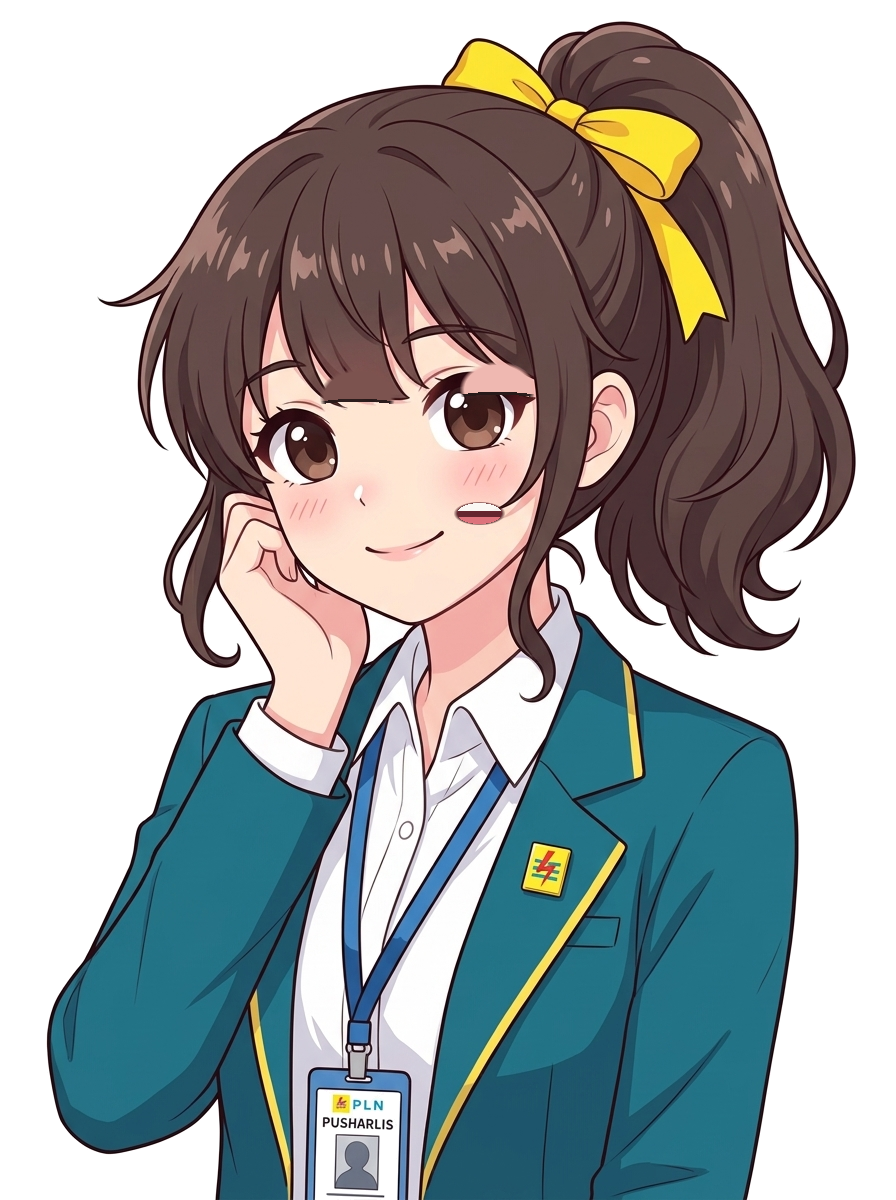
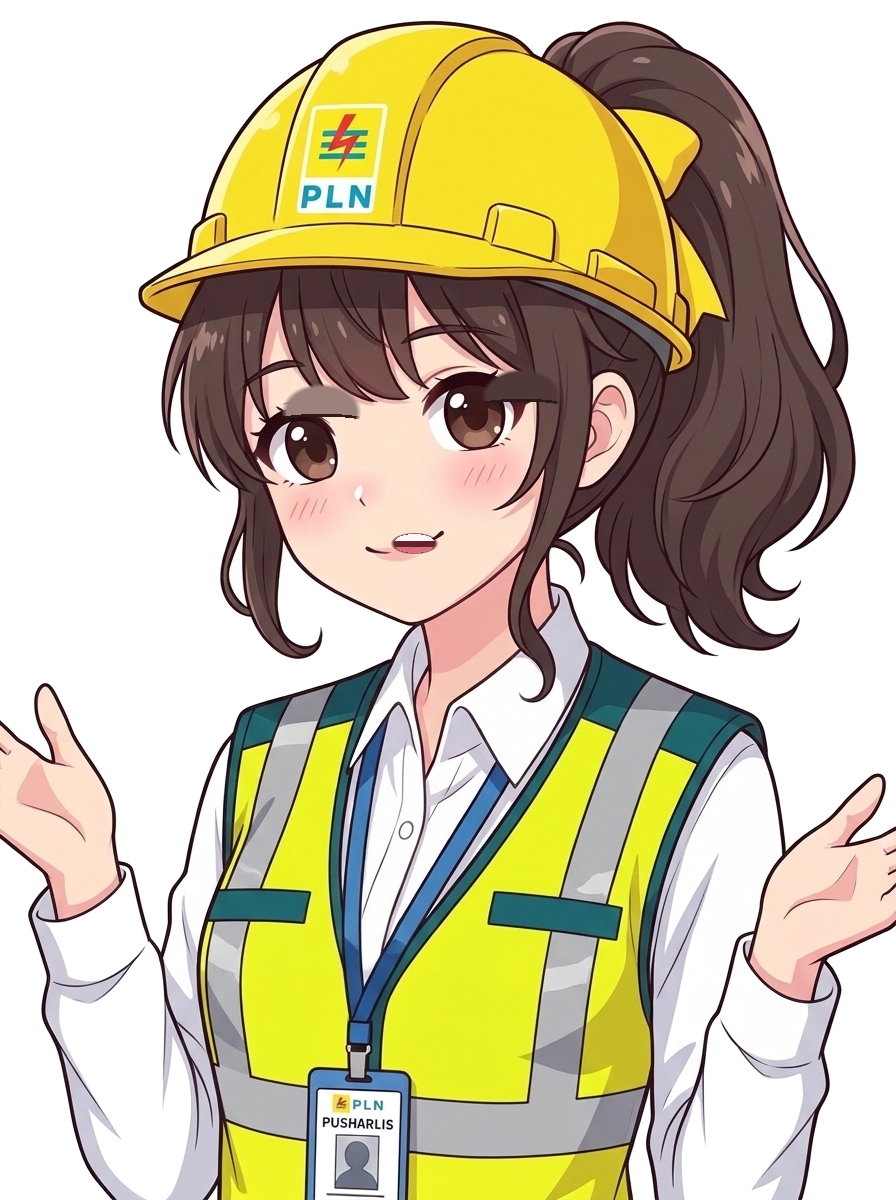
fix(ui): perbaiki balon & panel chat AI agar tidak terpotong di layar HP, dan perbarui pakaian APD (helm K3 & rompi reflektif rapi proporsional)

diff --git a/css/assistant.css b/css/assistant.css
@@ -72,9 +72,9 @@
 #bub {
   position: absolute;
   right: 122px;
-  bottom: 62px;
+  bottom: 50px;
   width: max-content;
-  max-width: min(280px, calc(100vw - 180px));
+  max-width: min(290px, calc(100vw - 160px));
   padding: 12px 16px;
   border: 2.5px solid #3bb7e6;
   border-radius: 18px;
@@ -85,6 +85,10 @@
   box-shadow: 0 8px 28px rgba(0, 0, 0, 0.45);
   cursor: pointer;
   transition: transform 0.2s, box-shadow 0.2s;
+  word-break: break-word;
+  overflow-wrap: break-word;
+  box-sizing: border-box;
+  z-index: 45;
 }
 
 #bub:hover {
@@ -119,6 +123,19 @@
   font-weight: 600;
   line-height: 1.42;
   color: #f8fafc;
+}
+
+.bub-hint {
+  display: flex;
+  align-items: center;
+  gap: 5px;
+  margin-top: 8px;
+  padding-top: 6px;
+  border-top: 1px solid rgba(255, 255, 255, 0.12);
+  font-size: 11px;
+  font-weight: 600;
+  color: #3bb7e6;
+  letter-spacing: 0.2px;
 }
 
 #bub::after {
@@ -163,15 +180,17 @@
   position: absolute;
   right: 0;
   bottom: 198px;
-  width: 270px;
-  max-width: calc(100vw - 36px);
-  max-height: calc(100vh - 250px);
+  width: 300px;
+  max-width: calc(100vw - 32px);
+  max-height: calc(100vh - 220px);
   display: flex;
   flex-direction: column;
   overflow: hidden;
   border-radius: 16px;
   background: var(--card);
-  box-shadow: 0 10px 40px #0007;
+  box-shadow: 0 10px 40px rgba(0, 0, 0, 0.5);
+  border: 1.5px solid var(--acc);
+  z-index: 50;
 }
 
 #stage {
@@ -347,7 +366,8 @@
 }
 
 /* =============================================================
-   4. RESPONSIF ROBOT & BALON PADA LAYAR KECIL
+   4. RESPONSIF ROBOT & BALON PADA LAYAR KECIL (MOBILE)
+   Balon dan panel tampil di atas karakter agar tidak terpotong ke samping
    ============================================================= */
 @media (max-width: 600px) {
   #fab {
@@ -356,21 +376,50 @@
   }
 
   #bub {
-    right: 92px;
-    bottom: 40px;
-    font-size: 12.5px;
+    right: 0 !important;
+    left: auto !important;
+    bottom: 165px !important;
+    width: max-content !important;
+    max-width: min(300px, calc(100vw - 28px)) !important;
+    font-size: 12.5px !important;
   }
 
-  #panel {
-    bottom: 152px;
-    max-height: calc(100vh - 210px);
+  #bub::after {
+    right: 36px !important;
+    left: auto !important;
+    top: auto !important;
+    bottom: -11px !important;
+    border-top: 11px solid #3bb7e6 !important;
+    border-left: 9px solid transparent !important;
+    border-right: 9px solid transparent !important;
+    border-bottom: 0 !important;
   }
 
   #bot.left #bub {
-    left: 92px;
+    left: 0 !important;
+    right: auto !important;
+  }
+
+  #bot.left #bub::after {
+    left: 36px !important;
+    right: auto !important;
+    top: auto !important;
+    bottom: -11px !important;
+    border-top: 11px solid #3bb7e6 !important;
+    border-left: 9px solid transparent !important;
+    border-right: 9px solid transparent !important;
+    border-bottom: 0 !important;
+  }
+
+  #panel {
+    bottom: 165px !important;
+    width: calc(100vw - 32px) !important;
+    max-width: 320px !important;
+    max-height: calc(100vh - 190px) !important;
   }
 
   #bot.top #panel {
-    top: 152px;
+    top: 165px !important;
+    bottom: auto !important;
   }
 }

diff --git a/public/css/assistant.css b/public/css/assistant.css
@@ -72,9 +72,9 @@
 #bub {
   position: absolute;
   right: 122px;
-  bottom: 62px;
+  bottom: 50px;
   width: max-content;
-  max-width: min(280px, calc(100vw - 180px));
+  max-width: min(290px, calc(100vw - 160px));
   padding: 12px 16px;
   border: 2.5px solid #3bb7e6;
   border-radius: 18px;
@@ -85,6 +85,10 @@
   box-shadow: 0 8px 28px rgba(0, 0, 0, 0.45);
   cursor: pointer;
   transition: transform 0.2s, box-shadow 0.2s;
+  word-break: break-word;
+  overflow-wrap: break-word;
+  box-sizing: border-box;
+  z-index: 45;
 }
 
 #bub:hover {
@@ -119,6 +123,19 @@
   font-weight: 600;
   line-height: 1.42;
   color: #f8fafc;
+}
+
+.bub-hint {
+  display: flex;
+  align-items: center;
+  gap: 5px;
+  margin-top: 8px;
+  padding-top: 6px;
+  border-top: 1px solid rgba(255, 255, 255, 0.12);
+  font-size: 11px;
+  font-weight: 600;
+  color: #3bb7e6;
+  letter-spacing: 0.2px;
 }
 
 #bub::after {
@@ -163,15 +180,17 @@
   position: absolute;
   right: 0;
   bottom: 198px;
-  width: 270px;
-  max-width: calc(100vw - 36px);
-  max-height: calc(100vh - 250px);
+  width: 300px;
+  max-width: calc(100vw - 32px);
+  max-height: calc(100vh - 220px);
   display: flex;
   flex-direction: column;
   overflow: hidden;
   border-radius: 16px;
   background: var(--card);
-  box-shadow: 0 10px 40px #0007;
+  box-shadow: 0 10px 40px rgba(0, 0, 0, 0.5);
+  border: 1.5px solid var(--acc);
+  z-index: 50;
 }
 
 #stage {
@@ -347,7 +366,8 @@
 }
 
 /* =============================================================
-   4. RESPONSIF ROBOT & BALON PADA LAYAR KECIL
+   4. RESPONSIF ROBOT & BALON PADA LAYAR KECIL (MOBILE)
+   Balon dan panel tampil di atas karakter agar tidak terpotong ke samping
    ============================================================= */
 @media (max-width: 600px) {
   #fab {
@@ -356,21 +376,50 @@
   }
 
   #bub {
-    right: 92px;
-    bottom: 40px;
-    font-size: 12.5px;
+    right: 0 !important;
+    left: auto !important;
+    bottom: 165px !important;
+    width: max-content !important;
+    max-width: min(300px, calc(100vw - 28px)) !important;
+    font-size: 12.5px !important;
   }
 
-  #panel {
-    bottom: 152px;
-    max-height: calc(100vh - 210px);
+  #bub::after {
+    right: 36px !important;
+    left: auto !important;
+    top: auto !important;
+    bottom: -11px !important;
+    border-top: 11px solid #3bb7e6 !important;
+    border-left: 9px solid transparent !important;
+    border-right: 9px solid transparent !important;
+    border-bottom: 0 !important;
   }
 
   #bot.left #bub {
-    left: 92px;
+    left: 0 !important;
+    right: auto !important;
+  }
+
+  #bot.left #bub::after {
+    left: 36px !important;
+    right: auto !important;
+    top: auto !important;
+    bottom: -11px !important;
+    border-top: 11px solid #3bb7e6 !important;
+    border-left: 9px solid transparent !important;
+    border-right: 9px solid transparent !important;
+    border-bottom: 0 !important;
+  }
+
+  #panel {
+    bottom: 165px !important;
+    width: calc(100vw - 32px) !important;
+    max-width: 320px !important;
+    max-height: calc(100vh - 190px) !important;
   }
 
   #bot.top #panel {
-    top: 152px;
+    top: 165px !important;
+    bottom: auto !important;
   }
 }

diff --git a/js/assistant.js b/js/assistant.js
@@ -150,6 +150,14 @@ function initAssistant() {
     };
   }
 
+  const pclose = $('#pclose');
+  if (pclose) {
+    pclose.onclick = (e) => {
+      e.stopPropagation();
+      if ($('#panel')) $('#panel').classList.add('hide');
+    };
+  }
+
   const bub = $('#bub');
   if (bub && fab) {
     bub.onclick = () => fab.click();
@@ -244,12 +252,13 @@ function showBubble(text) {
       <span>PLN ners • PLN Pusharlis</span>
     </div>
     <div class="bub-text">${esc(text)}</div>
+    <div class="bub-hint">💬 Ketuk balon untuk buka Chat AI</div>
   `;
   b.classList.remove('hide');
   clearTimeout(bubbleTimer);
   bubbleTimer = setTimeout(() => {
     b.classList.add('hide');
-  }, Math.max(5000, text.length * 75));
+  }, Math.max(7000, text.length * 85));
 }
 
 function botHello(page, force = false) {

diff --git a/public/js/assistant.js b/public/js/assistant.js
@@ -150,6 +150,14 @@ function initAssistant() {
     };
   }
 
+  const pclose = $('#pclose');
+  if (pclose) {
+    pclose.onclick = (e) => {
+      e.stopPropagation();
+      if ($('#panel')) $('#panel').classList.add('hide');
+    };
+  }
+
   const bub = $('#bub');
   if (bub && fab) {
     bub.onclick = () => fab.click();
@@ -244,12 +252,13 @@ function showBubble(text) {
       <span>PLN ners • PLN Pusharlis</span>
     </div>
     <div class="bub-text">${esc(text)}</div>
+    <div class="bub-hint">💬 Ketuk balon untuk buka Chat AI</div>
   `;
   b.classList.remove('hide');
   clearTimeout(bubbleTimer);
   bubbleTimer = setTimeout(() => {
     b.classList.add('hide');
-  }, Math.max(5000, text.length * 75));
+  }, Math.max(7000, text.length * 85));
 }
 
 function botHello(page, force = false) {

diff --git a/index.html b/index.html
@@ -383,6 +383,7 @@
         </div>
       </div>
       <button id="spk" title="Nyalakan / Matikan Suara">🔊 Aktif</button>
+      <button id="pclose" title="Tutup Chat" style="background:none;border:0;color:#fff;font-size:18px;cursor:pointer;padding:2px 8px;margin-left:6px;line-height:1;opacity:0.85;">✕</button>
     </div>
 
     <!-- Chat Messages, Quick Chips & Input -->

diff --git a/public/index.html b/public/index.html
@@ -383,6 +383,7 @@
         </div>
       </div>
       <button id="spk" title="Nyalakan / Matikan Suara">🔊 Aktif</button>
+      <button id="pclose" title="Tutup Chat" style="background:none;border:0;color:#fff;font-size:18px;cursor:pointer;padding:2px 8px;margin-left:6px;line-height:1;opacity:0.85;">✕</button>
     </div>
 
     <!-- Chat Messages, Quick Chips & Input -->
